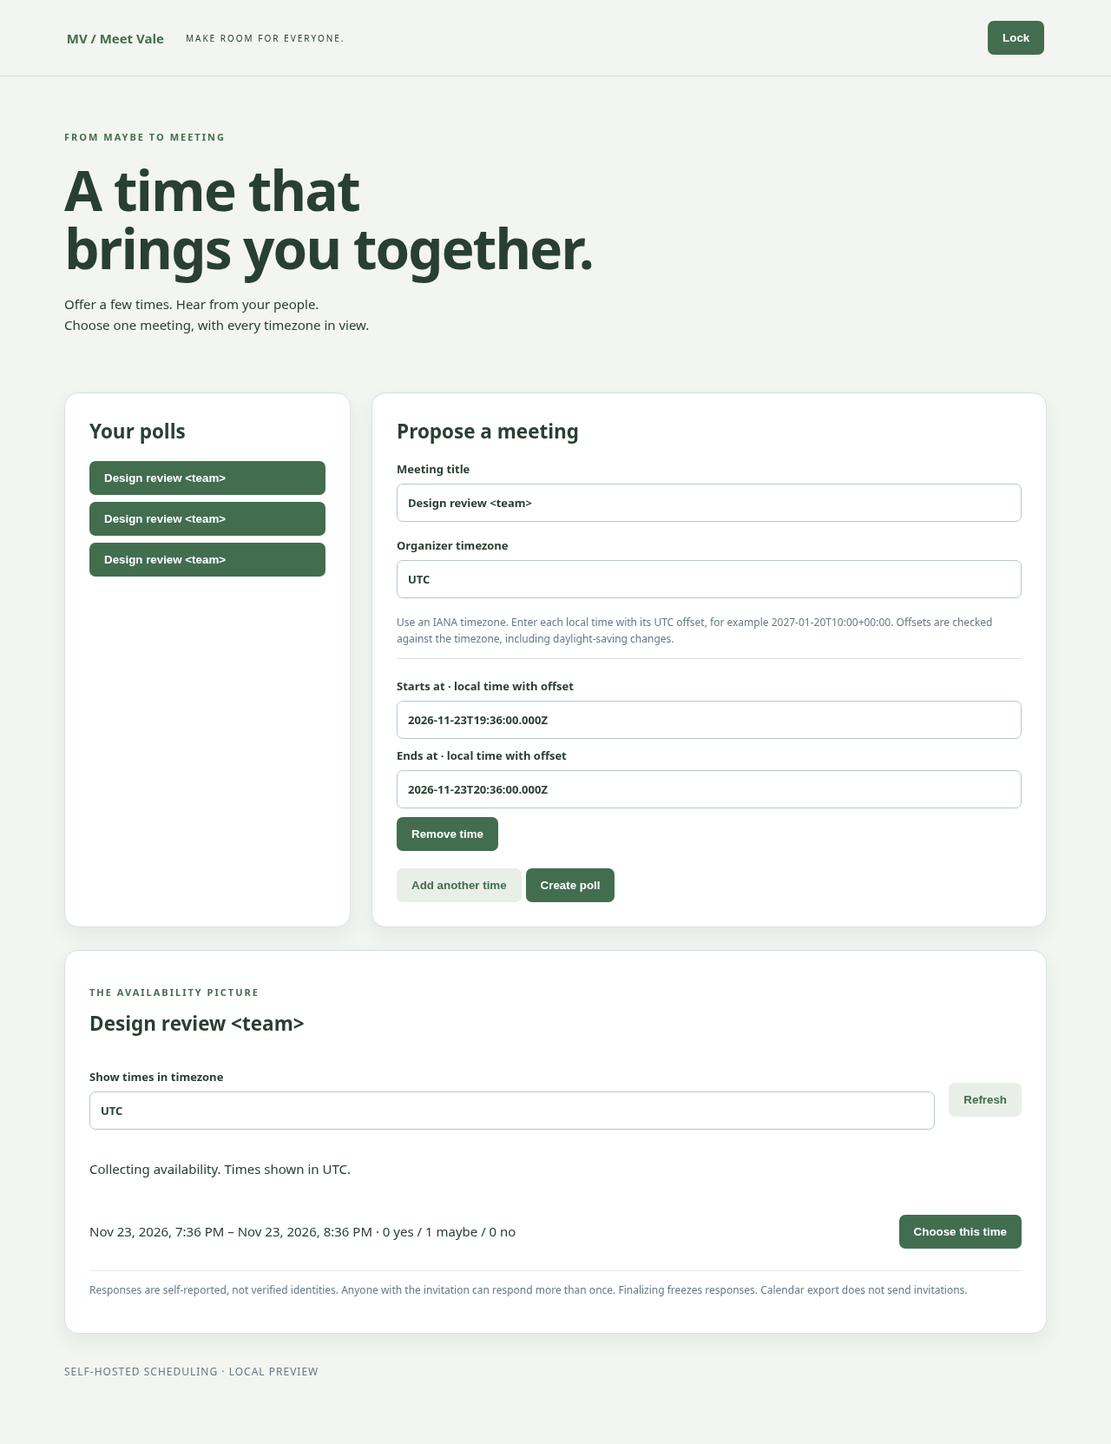
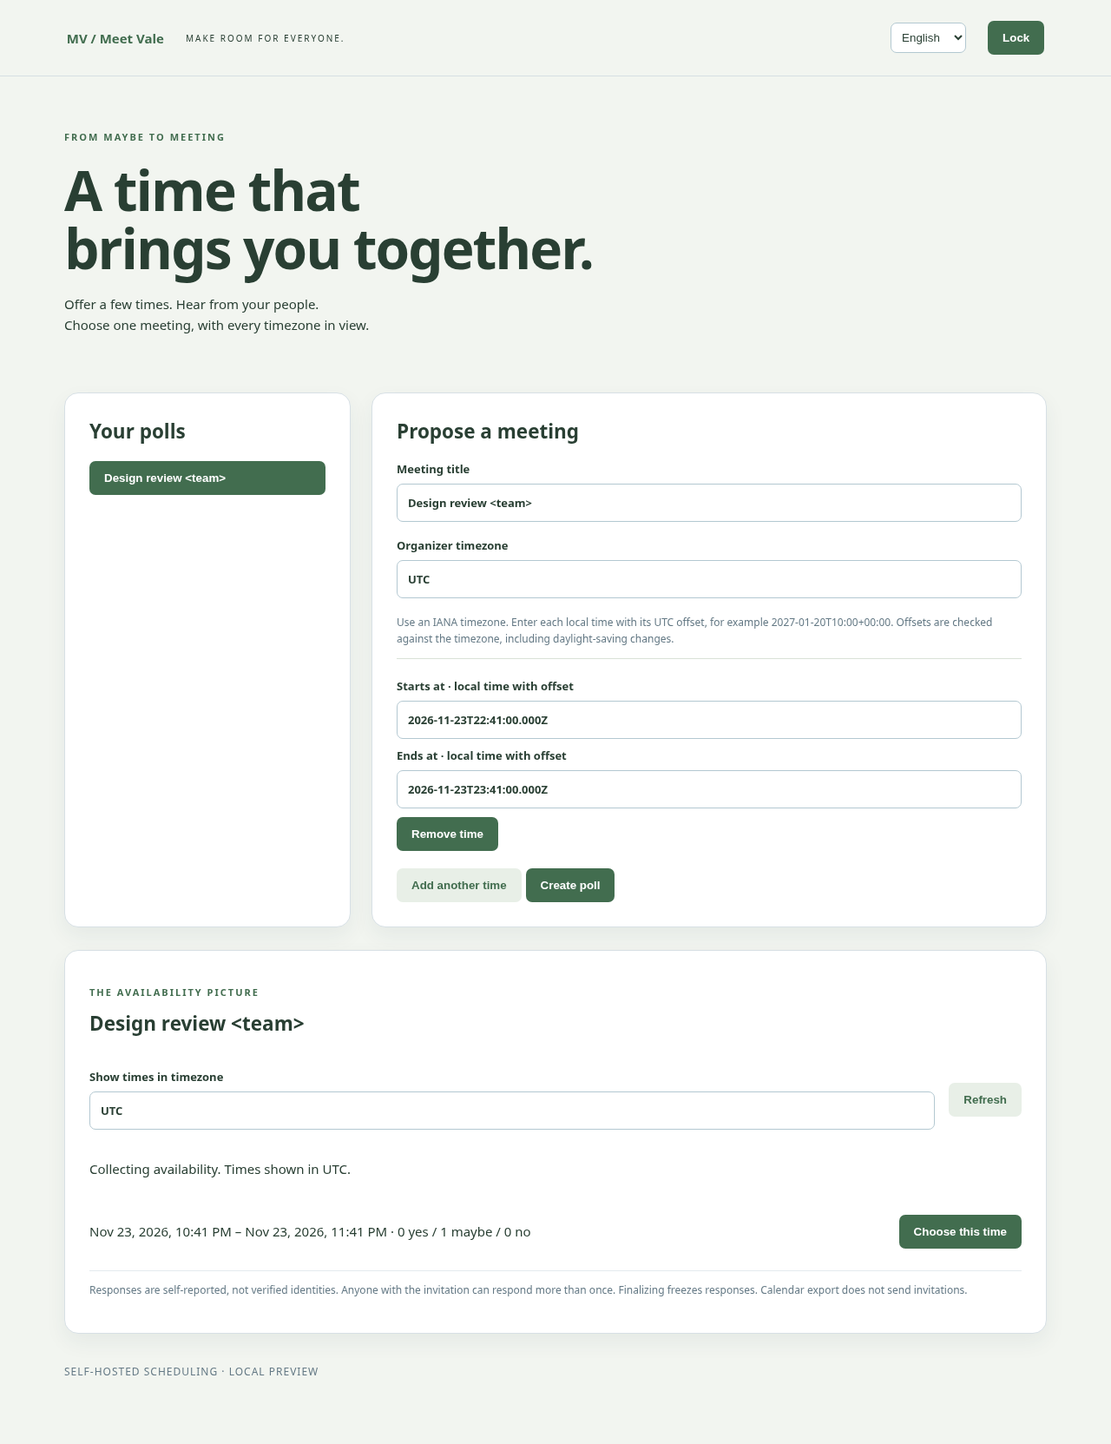
Add Spanish scheduling interface with preserved form state

Changed region(s): [[0.0625, 0.3373, 0.3125, 0.3987], [0.1562, 0.828, 0.4688, 0.8587], [0.8125, 0.0, 0.8438, 0.0307]]

diff --git a/static/app.js b/static/app.js
@@ -1,13 +1,13 @@
-'use strict';const $=id=>document.getElementById(id);let owner='',pid='',invite='',gid='',editKey='',view=null;
+'use strict';const $=id=>document.getElementById(id);let owner='',pid='',invite='',gid='',editKey='',view=null,message="";
 const hash=new URLSearchParams(location.hash.slice(1));if(hash.has('poll')){pid=hash.get('poll');invite=hash.get('key')||'';gid=hash.get('guest')||'';editKey=hash.get('edit')||'';history.replaceState(null,'',location.pathname);}
-function say(text){$('message').textContent=text;}
+function say(text){message=text;$('message').textContent=t(text);}
 function act(fn){return async e=>{e?.preventDefault();say('');const b=e?.submitter;if(b)b.disabled=true;try{await fn();}catch(err){say(err.message);}finally{if(b)b.disabled=false;}};}
 async function api(path,method='GET',body,key=owner){const headers={Authorization:'Bearer '+key};if(body!==undefined)headers['Content-Type']='application/json';const r=await fetch(path,{method,headers,body:body===undefined?undefined:JSON.stringify(body)});if(!r.ok){let error;try{error=(await r.json()).error;}catch{}throw Error(error||'Request failed. Please retry.');}return r;}
-function button(label,fn){const b=document.createElement('button');b.type='button';b.textContent=label;b.onclick=act(fn);return b;}
-function draft(){if($('draftSlots').children.length>=20){say('Choose at most 20 times.');return;}const row=document.createElement('div');row.className='draft';for(const [field,label] of [['start','Starts at · local time with offset'],['end','Ends at · local time with offset']]){const l=document.createElement('label');l.textContent=label;const input=document.createElement('input');input.dataset.field=field;input.required=true;input.placeholder=field==='start'?'2027-01-20T10:00+00:00':'2027-01-20T11:00+00:00';l.append(input);row.append(l);}row.append(button('Remove time',()=>row.remove()));$('draftSlots').append(row);}
+function button(label,fn,literal=false){const b=document.createElement('button');b.type='button';b.textContent=literal?label:t(label);if(!literal)b.dataset.i18n=label;b.onclick=act(fn);return b;}
+function draft(){if($('draftSlots').children.length>=20){say('Choose at most 20 times.');return;}const row=document.createElement('div');row.className='draft';for(const [field,label] of [['start','Starts at · local time with offset'],['end','Ends at · local time with offset']]){const l=document.createElement('label');const span=document.createElement('span');span.dataset.i18n=label;span.textContent=t(label);l.append(span);const input=document.createElement('input');input.dataset.field=field;input.required=true;input.placeholder=field==='start'?'2027-01-20T10:00+00:00':'2027-01-20T11:00+00:00';l.append(input);row.append(l);}row.append(button('Remove time',()=>row.remove()));$('draftSlots').append(row);}
 function privateLink(){return location.origin+'/#'+new URLSearchParams({poll:pid,key:invite,...(gid?{guest:gid,edit:editKey}:{})});}
-async function list(){const rows=await(await api('/api/polls')).json();$('polls').replaceChildren();for(const p of rows)$('polls').append(button(p.title,async()=>{pid=p.id;$('shareBox').hidden=true;await refresh();}));if(!rows.length)$('polls').textContent='No polls yet. Propose your first meeting.';}
-function render(){const zone=$('displayZone').value;const format=new Intl.DateTimeFormat(undefined,{timeZone:zone,dateStyle:'medium',timeStyle:'short'});$('pollTitle').textContent=view.title;$('status').textContent=view.final===null?'Collecting availability. Times shown in '+zone+'.':'Meeting finalized. Times shown in '+zone+'.';$('slots').replaceChildren();view.slots.forEach((slot,i)=>{const row=document.createElement('div');row.className='row';const text=document.createElement('p');const count=view.counts[i];text.textContent=`${format.format(new Date(slot[0]*1000))} – ${format.format(new Date(slot[1]*1000))} · ${count.yes} yes / ${count.maybe} maybe / ${count.no} no${view.final===i?' · Selected meeting':''}`;row.append(text);if(view.final===null){if(owner)row.append(button('Choose this time',async()=>{if(!confirm('Finalize this time? Responses will be frozen.'))return;await api('/api/polls/'+pid+'/finalize','POST',{index:i});await refresh();}));else{const select=document.createElement('select');select.dataset.vote=i;select.setAttribute('aria-label','Availability for option '+(i+1));for(const [value,label] of [['','Choose availability'],['yes','Yes'],['maybe','Maybe'],['no','No']]){const o=document.createElement('option');o.value=value;o.textContent=label;select.append(o);}row.append(select);}}$('slots').append(row);});$('detail').hidden=false;$('respond').hidden=!!owner||view.final!==null;$('name').required=!gid;$('name').parentElement.hidden=!!gid;$('save').textContent=gid?'Update availability':'Save availability';$('calendar').hidden=view.final===null||!!owner;}
+async function list(){const rows=await(await api('/api/polls')).json();$('polls').replaceChildren();for(const p of rows)$('polls').append(button(p.title,async()=>{pid=p.id;$('shareBox').hidden=true;await refresh();},true));if(!rows.length)$('polls').textContent=t('No polls yet. Propose your first meeting.');}
+function render(){const zone=$('displayZone').value;const format=new Intl.DateTimeFormat(language,{timeZone:zone,dateStyle:'medium',timeStyle:'short'});$('pollTitle').textContent=view.title;$('status').textContent=t(view.final===null?'Collecting availability. Times shown in {zone}.':'Meeting finalized. Times shown in {zone}.',{zone});$('slots').replaceChildren();view.slots.forEach((slot,i)=>{const row=document.createElement('div');row.className='row';const text=document.createElement('p');const count=view.counts[i];text.textContent=`${format.format(new Date(slot[0]*1000))} – ${format.format(new Date(slot[1]*1000))} · ${t('{yes} yes / {maybe} maybe / {no} no',count)}${view.final===i?' · '+t('Selected meeting'):''}`;row.append(text);if(view.final===null){if(owner)row.append(button('Choose this time',async()=>{if(!confirm(t('Finalize this time? Responses will be frozen.')))return;await api('/api/polls/'+pid+'/finalize','POST',{index:i});await refresh();}));else{const select=document.createElement('select');select.dataset.vote=i;select.setAttribute('aria-label',t('Availability for option {number}',{number:i+1}));for(const [value,label] of [['','Choose availability'],['yes','Yes'],['maybe','Maybe'],['no','No']]){const o=document.createElement('option');o.value=value;o.textContent=t(label);select.append(o);}row.append(select);}}$('slots').append(row);});$('detail').hidden=false;$('respond').hidden=!!owner||view.final!==null;$('name').required=!gid;$('name').parentElement.hidden=!!gid;$('save').textContent=t(gid?'Update availability':'Save availability');$('calendar').hidden=view.final===null||!!owner;}
 async function refresh(){view=await(await api(owner?'/api/polls/'+pid:'/api/shared/'+pid,'GET',undefined,owner||invite)).json();render();}
 $('unlock').onsubmit=act(async()=>{owner=$('key').value;await list();$('key').value='';$('login').hidden=true;$('owner').hidden=false;});
 $('create').onsubmit=act(async()=>{const slots=[...$('draftSlots').children].map(row=>Object.fromEntries([...row.querySelectorAll('input')].map(i=>[i.dataset.field,i.value])));const r=await(await api('/api/polls','POST',{title:$('title').value,zone:$('zone').value,slots})).json();pid=r.id;invite=r.token;gid='';editKey='';$('share').value=privateLink();$('shareBox').hidden=false;$('displayZone').value=$('zone').value;await list();await refresh();});
@@ -15,3 +15,5 @@ $('respond').onsubmit=act(async()=>{const votes=[...$('slots').querySelectorAll(
 $('displayZone').onchange=act(async()=>{const answers=[...$('slots').querySelectorAll('select')].map(s=>s.value);render();$('slots').querySelectorAll('select').forEach((s,i)=>s.value=answers[i]||'');});$('refresh').onclick=act(refresh);$('add').onclick=draft;$('lock').onclick=()=>location.replace('/');$('share').onclick=()=>$('share').select();$('edit').onclick=()=>$('edit').select();
 $('calendar').onclick=act(async()=>{const r=await api('/api/shared/'+pid+'/calendar.ics','GET',undefined,invite);const url=URL.createObjectURL(await r.blob());const a=document.createElement('a');a.href=url;a.download='meeting.ics';a.click();setTimeout(()=>URL.revokeObjectURL(url),1000);});
 try{$('displayZone').value=Intl.DateTimeFormat().resolvedOptions().timeZone||'UTC';}catch{}draft();if(pid){$('login').hidden=true;act(refresh)();}
+
+document.addEventListener('languagechange',()=>{say(message);if(view){const answers=[...$('slots').querySelectorAll('select')].map(s=>s.value);try{render();$('slots').querySelectorAll('select').forEach((s,i)=>s.value=answers[i]||'');}catch(err){say(err.message);}}});

diff --git a/static/index.html b/static/index.html
@@ -1,1 +1,1 @@
-<!doctype html><html lang="en"><meta charset="utf-8"><meta name="viewport" content="width=device-width,initial-scale=1"><title>Meet Vale</title><link rel="stylesheet" href="/static/style.css"><script defer src="/static/app.js"></script><body><header><a href="/">MV / Meet Vale</a><small>MAKE ROOM FOR EVERYONE.</small><button id="lock">Lock</button></header><main><section class="intro"><p class="eyebrow">FROM MAYBE TO MEETING</p><h1>A time that<br>brings you together.</h1><p>Offer a few times. Hear from your people.<br>Choose one meeting, with every timezone in view.</p></section><p id="message" role="status"></p><section id="login" class="card"><h2>Your organizer workspace</h2><form id="unlock"><label>Owner key<input id="key" type="password" autocomplete="off" required></label><button>Unlock workspace</button></form></section><section id="owner" hidden><div class="columns"><aside class="card"><h2>Your polls</h2><div id="polls"></div></aside><section class="card"><h2>Propose a meeting</h2><form id="create"><label>Meeting title<input id="title" maxlength="200" required></label><label>Organizer timezone<input id="zone" value="UTC" required placeholder="Europe/London"></label><p class="muted">Use an IANA timezone. Enter each local time with its UTC offset, for example 2027-01-20T10:00+00:00. Offsets are checked against the timezone, including daylight-saving changes.</p><div id="draftSlots"></div><button type="button" id="add" class="secondary">Add another time</button><button>Create poll</button></form></section></div></section><label id="shareBox" class="card" hidden>Save this invitation link now<input id="share" readonly></label><section id="detail" class="card" hidden><p class="eyebrow">THE AVAILABILITY PICTURE</p><h2 id="pollTitle"></h2><div class="heading"><label>Show times in timezone<input id="displayZone" value="UTC"></label><button id="refresh" class="secondary">Refresh</button></div><p id="status"></p><div id="slots"></div><form id="respond" hidden><label>Your display name<input id="name" maxlength="80" required></label><button id="save">Save availability</button></form><label id="editBox" hidden>Save your private update link<input id="edit" readonly></label><button id="calendar" hidden>Download calendar file</button><p class="muted">Responses are self-reported, not verified identities. Anyone with the invitation can respond more than once. Finalizing freezes responses. Calendar export does not send invitations.</p></section><footer>SELF-HOSTED SCHEDULING · LOCAL PREVIEW</footer></main></body></html>
+<!doctype html><html lang="en"><meta charset="utf-8"><meta name="viewport" content="width=device-width,initial-scale=1"><title>Meet Vale</title><link rel="stylesheet" href="/static/style.css"><script defer src="/static/i18n.js"></script><script defer src="/static/app.js"></script><body><header><a href="/">MV / Meet Vale</a><small><span data-i18n="MAKE ROOM FOR EVERYONE.">MAKE ROOM FOR EVERYONE.</span></small><select id="language" aria-label="Language / Idioma"><option value="en">English</option><option value="es">Español</option></select><button id="lock"><span data-i18n="Lock">Lock</span></button></header><main><section class="intro"><p class="eyebrow"><span data-i18n="FROM MAYBE TO MEETING">FROM MAYBE TO MEETING</span></p><h1><span data-i18n="A time that">A time that</span><br><span data-i18n="brings you together.">brings you together.</span></h1><p><span data-i18n="Offer a few times. Hear from your people.">Offer a few times. Hear from your people.</span><br><span data-i18n="Choose one meeting, with every timezone in view.">Choose one meeting, with every timezone in view.</span></p></section><p id="message" role="status"></p><section id="login" class="card"><h2><span data-i18n="Your organizer workspace">Your organizer workspace</span></h2><form id="unlock"><label><span data-i18n="Owner key">Owner key</span><input id="key" type="password" autocomplete="off" required></label><button><span data-i18n="Unlock workspace">Unlock workspace</span></button></form></section><section id="owner" hidden><div class="columns"><aside class="card"><h2><span data-i18n="Your polls">Your polls</span></h2><div id="polls"></div></aside><section class="card"><h2><span data-i18n="Propose a meeting">Propose a meeting</span></h2><form id="create"><label><span data-i18n="Meeting title">Meeting title</span><input id="title" maxlength="200" required></label><label><span data-i18n="Organizer timezone">Organizer timezone</span><input id="zone" value="UTC" required placeholder="Europe/London"></label><p class="muted"><span data-i18n="Use an IANA timezone. Enter each local time with its UTC offset, for example 2027-01-20T10:00+00:00. Offsets are checked against the timezone, including daylight-saving changes.">Use an IANA timezone. Enter each local time with its UTC offset, for example 2027-01-20T10:00+00:00. Offsets are checked against the timezone, including daylight-saving changes.</span></p><div id="draftSlots"></div><button type="button" id="add" class="secondary"><span data-i18n="Add another time">Add another time</span></button><button><span data-i18n="Create poll">Create poll</span></button></form></section></div></section><label id="shareBox" class="card" hidden><span data-i18n="Save this invitation link now">Save this invitation link now</span><input id="share" readonly></label><section id="detail" class="card" hidden><p class="eyebrow"><span data-i18n="THE AVAILABILITY PICTURE">THE AVAILABILITY PICTURE</span></p><h2 id="pollTitle"></h2><div class="heading"><label><span data-i18n="Show times in timezone">Show times in timezone</span><input id="displayZone" value="UTC"></label><button id="refresh" class="secondary"><span data-i18n="Refresh">Refresh</span></button></div><p id="status"></p><div id="slots"></div><form id="respond" hidden><label><span data-i18n="Your display name">Your display name</span><input id="name" maxlength="80" required></label><button id="save"><span data-i18n="Save availability">Save availability</span></button></form><label id="editBox" hidden><span data-i18n="Save your private update link">Save your private update link</span><input id="edit" readonly></label><button id="calendar" hidden><span data-i18n="Download calendar file">Download calendar file</span></button><p class="muted"><span data-i18n="Responses are self-reported, not verified identities. Anyone with the invitation can respond more than once. Finalizing freezes responses. Calendar export does not send invitations.">Responses are self-reported, not verified identities. Anyone with the invitation can respond more than once. Finalizing freezes responses. Calendar export does not send invitations.</span></p></section><footer><span data-i18n="SELF-HOSTED SCHEDULING · LOCAL PREVIEW">SELF-HOSTED SCHEDULING · LOCAL PREVIEW</span></footer></main></body></html>

diff --git a/static/i18n.js b/static/i18n.js
@@ -1,0 +1,77 @@
+'use strict';
+const spanish={
+  "MAKE ROOM FOR EVERYONE.": "UN ESPACIO PARA TODOS.",
+  "Lock": "Bloquear",
+  "FROM MAYBE TO MEETING": "DE LA DUDA A LA REUNIÓN",
+  "A time that": "Un horario que",
+  "brings you together.": "os reúna.",
+  "Offer a few times. Hear from your people.": "Propón varios horarios. Escucha a tu equipo.",
+  "Choose one meeting, with every timezone in view.": "Elige una reunión teniendo en cuenta cada zona horaria.",
+  "Your organizer workspace": "Tu espacio de organización",
+  "Owner key": "Clave del propietario",
+  "Unlock workspace": "Desbloquear espacio",
+  "Your polls": "Tus encuestas",
+  "Propose a meeting": "Proponer una reunión",
+  "Meeting title": "Título de la reunión",
+  "Organizer timezone": "Zona horaria del organizador",
+  "Use an IANA timezone. Enter each local time with its UTC offset, for example 2027-01-20T10:00+00:00. Offsets are checked against the timezone, including daylight-saving changes.": "Usa una zona horaria IANA. Introduce cada hora local con su desfase UTC, por ejemplo 2027-01-20T10:00+00:00. El desfase se valida según la zona, incluidos los cambios de horario de verano.",
+  "Add another time": "Añadir otro horario",
+  "Create poll": "Crear encuesta",
+  "Save this invitation link now": "Guarda este enlace de invitación ahora",
+  "THE AVAILABILITY PICTURE": "LA DISPONIBILIDAD DEL GRUPO",
+  "Show times in timezone": "Mostrar horarios en la zona",
+  "Refresh": "Actualizar",
+  "Your display name": "Tu nombre visible",
+  "Save availability": "Guardar disponibilidad",
+  "Save your private update link": "Guarda tu enlace privado para actualizar",
+  "Download calendar file": "Descargar archivo de calendario",
+  "Responses are self-reported, not verified identities. Anyone with the invitation can respond more than once. Finalizing freezes responses. Calendar export does not send invitations.": "Las respuestas son declaraciones, no identidades verificadas. Cualquier persona con la invitación puede responder varias veces. Al finalizar se bloquean las respuestas. Exportar el calendario no envía invitaciones.",
+  "SELF-HOSTED SCHEDULING · LOCAL PREVIEW": "PLANIFICACIÓN EN TU SERVIDOR · VISTA PREVIA LOCAL",
+  "Choose at most 20 times.": "Elige un máximo de 20 horarios.",
+  "Starts at · local time with offset": "Inicio · hora local con desfase",
+  "Ends at · local time with offset": "Fin · hora local con desfase",
+  "Remove time": "Eliminar horario",
+  "No polls yet. Propose your first meeting.": "Aún no hay encuestas. Propón tu primera reunión.",
+  "Choose this time": "Elegir este horario",
+  "Finalize this time? Responses will be frozen.": "¿Finalizar con este horario? Se bloquearán las respuestas.",
+  "Choose availability": "Elige tu disponibilidad",
+  "Yes": "Sí",
+  "Maybe": "Quizá",
+  "No": "No",
+  "Update availability": "Actualizar disponibilidad",
+  "Choose availability for every time.": "Elige tu disponibilidad para cada horario.",
+  "Availability saved. Keep your private update link.": "Disponibilidad guardada. Conserva tu enlace privado para actualizar.",
+  "Request failed. Please retry.": "La solicitud ha fallado. Inténtalo de nuevo.",
+  "Owner access denied.": "Acceso del propietario denegado.",
+  "Poll access denied.": "Acceso a la encuesta denegado.",
+  "Storage unavailable. Please retry.": "Almacenamiento no disponible. Inténtalo de nuevo.",
+  "Use nonempty text without control characters.": "Introduce texto no vacío sin caracteres de control.",
+  "Use a valid local minute with an explicit UTC offset matching the selected timezone.": "Introduce una hora local válida, con minutos y un desfase UTC que corresponda a la zona seleccionada.",
+  "Choose 1 to 20 slots.": "Elige entre 1 y 20 horarios.",
+  "Invalid slot.": "Horario no válido.",
+  "Slots must start within 366 days and last 5 minutes to 12 hours.": "Los horarios deben empezar en los próximos 366 días y durar entre 5 minutos y 12 horas.",
+  "Duplicate slot.": "Horario duplicado.",
+  "Poll limit reached.": "Se ha alcanzado el límite de encuestas.",
+  "Poll unavailable.": "Encuesta no disponible.",
+  "Answer every slot with yes, maybe or no.": "Responde a cada horario con sí, quizá o no.",
+  "Poll is finalized.": "La encuesta está finalizada.",
+  "Participant limit reached.": "Se ha alcanzado el límite de participantes.",
+  "Participant access denied.": "Acceso del participante denegado.",
+  "Poll is already finalized.": "La encuesta ya está finalizada.",
+  "Choose an existing slot.": "Elige un horario existente.",
+  "Choose a future slot.": "Elige un horario futuro.",
+  "Finalize the poll before calendar export.": "Finaliza la encuesta antes de exportar el calendario.",
+  "Collecting availability. Times shown in {zone}.": "Recopilando disponibilidad. Horarios en {zone}.",
+  "Meeting finalized. Times shown in {zone}.": "Reunión finalizada. Horarios en {zone}.",
+  "{yes} yes / {maybe} maybe / {no} no": "{yes} sí / {maybe} quizá / {no} no",
+  "Selected meeting": "Reunión elegida",
+  "Availability for option {number}": "Disponibilidad para la opción {number}"
+};
+
+function supported(value){return /^es(?:-|$)/i.test(value||'')?'es':'en';}
+let language;try{language=localStorage.getItem('meet-language');}catch{}
+language=supported(language||navigator.language);
+function t(text,values={}){let result=(language==='es'&&spanish[text])||text;return result.replace(/\{(\w+)\}/g,(_,key)=>values[key]??'{'+key+'}');}
+function translateStatic(){document.documentElement.lang=language;document.querySelectorAll('[data-i18n]').forEach(el=>el.textContent=t(el.dataset.i18n));document.getElementById('language').value=language;}
+translateStatic();
+document.getElementById('language').addEventListener('change',e=>{language=supported(e.target.value);try{localStorage.setItem('meet-language',language);}catch{}translateStatic();document.dispatchEvent(new Event('languagechange'));});

diff --git a/static/style.css b/static/style.css
@@ -2,3 +2,5 @@
 
 header{flex-wrap:wrap}header select{padding:8px;border:1px solid #b3c8d1;border-radius:7px;background:white;color:inherit;max-width:140px}
 body{background:#f2f5f0;color:#293f33}header a,.eyebrow{color:#426d4f}button{background:#426d4f}.secondary{color:#426d4f;background:#e8efe7}#detail,#shareBox{margin-top:26px}#polls button{display:block;width:100%;text-align:left;margin:8px 0;overflow-wrap:anywhere}.draft{border-top:1px solid #d9e2d7;padding:12px 0}.draft label{margin:10px 0}select{padding:10px;border:1px solid #b3c8b8;border-radius:7px;background:white;color:inherit}.row{flex-wrap:wrap}.row p{flex:1;min-width:180px}.row select{max-width:100%}.heading{gap:16px}.heading label{flex:1}#create>button{margin:8px 5px 0 0}
+
+header{flex-wrap:wrap}header select{max-width:140px}

diff --git a/README.md b/README.md
@@ -2,7 +2,7 @@
 
 An open-source alternative for Doodle's group scheduling workflow, in preparation.
 
-Implemented locally: immutable proposed slots, guest yes/maybe/no responses, private participant update credentials, aggregate counts, one final choice and UTC iCalendar export. Local English owner/guest browser preview included; no hosted demo or public release yet.
+Implemented locally: immutable proposed slots, guest yes/maybe/no responses, private participant update credentials, aggregate counts, one final choice and UTC iCalendar export. Local English/Spanish owner/guest browser preview included; no hosted demo or public release yet.
 
 ![Meet Vale organizer workspace](docs/assets/workspace.png)
 
@@ -34,3 +34,5 @@ Browser acceptance uses Node.js, Playwright and Chromium against a disposable se
 ## Persistent local deployment
 
 [Docker setup, backup and restore](docs/DEPLOYMENT.md) uses Waitress, a non-root/read-only container and a localhost port. Container acceptance verifies open-poll edits, frozen finalization, credentials and exact calendar bytes across restart and clean-volume restore. Public hosting remains unverified.
+
+The language selector supports English and Spanish with regional preference detection and saved choice when storage is available. Switching preserves drafts, times, guest answers and private links. User-authored names and titles remain literal. German, Japanese and both Chinese variants are pending; native-speaker review is not claimed. Run `MEET_URL=http://127.0.0.1:8102 node scripts/locales.cjs` against the disposable test server to reproduce locale acceptance.
